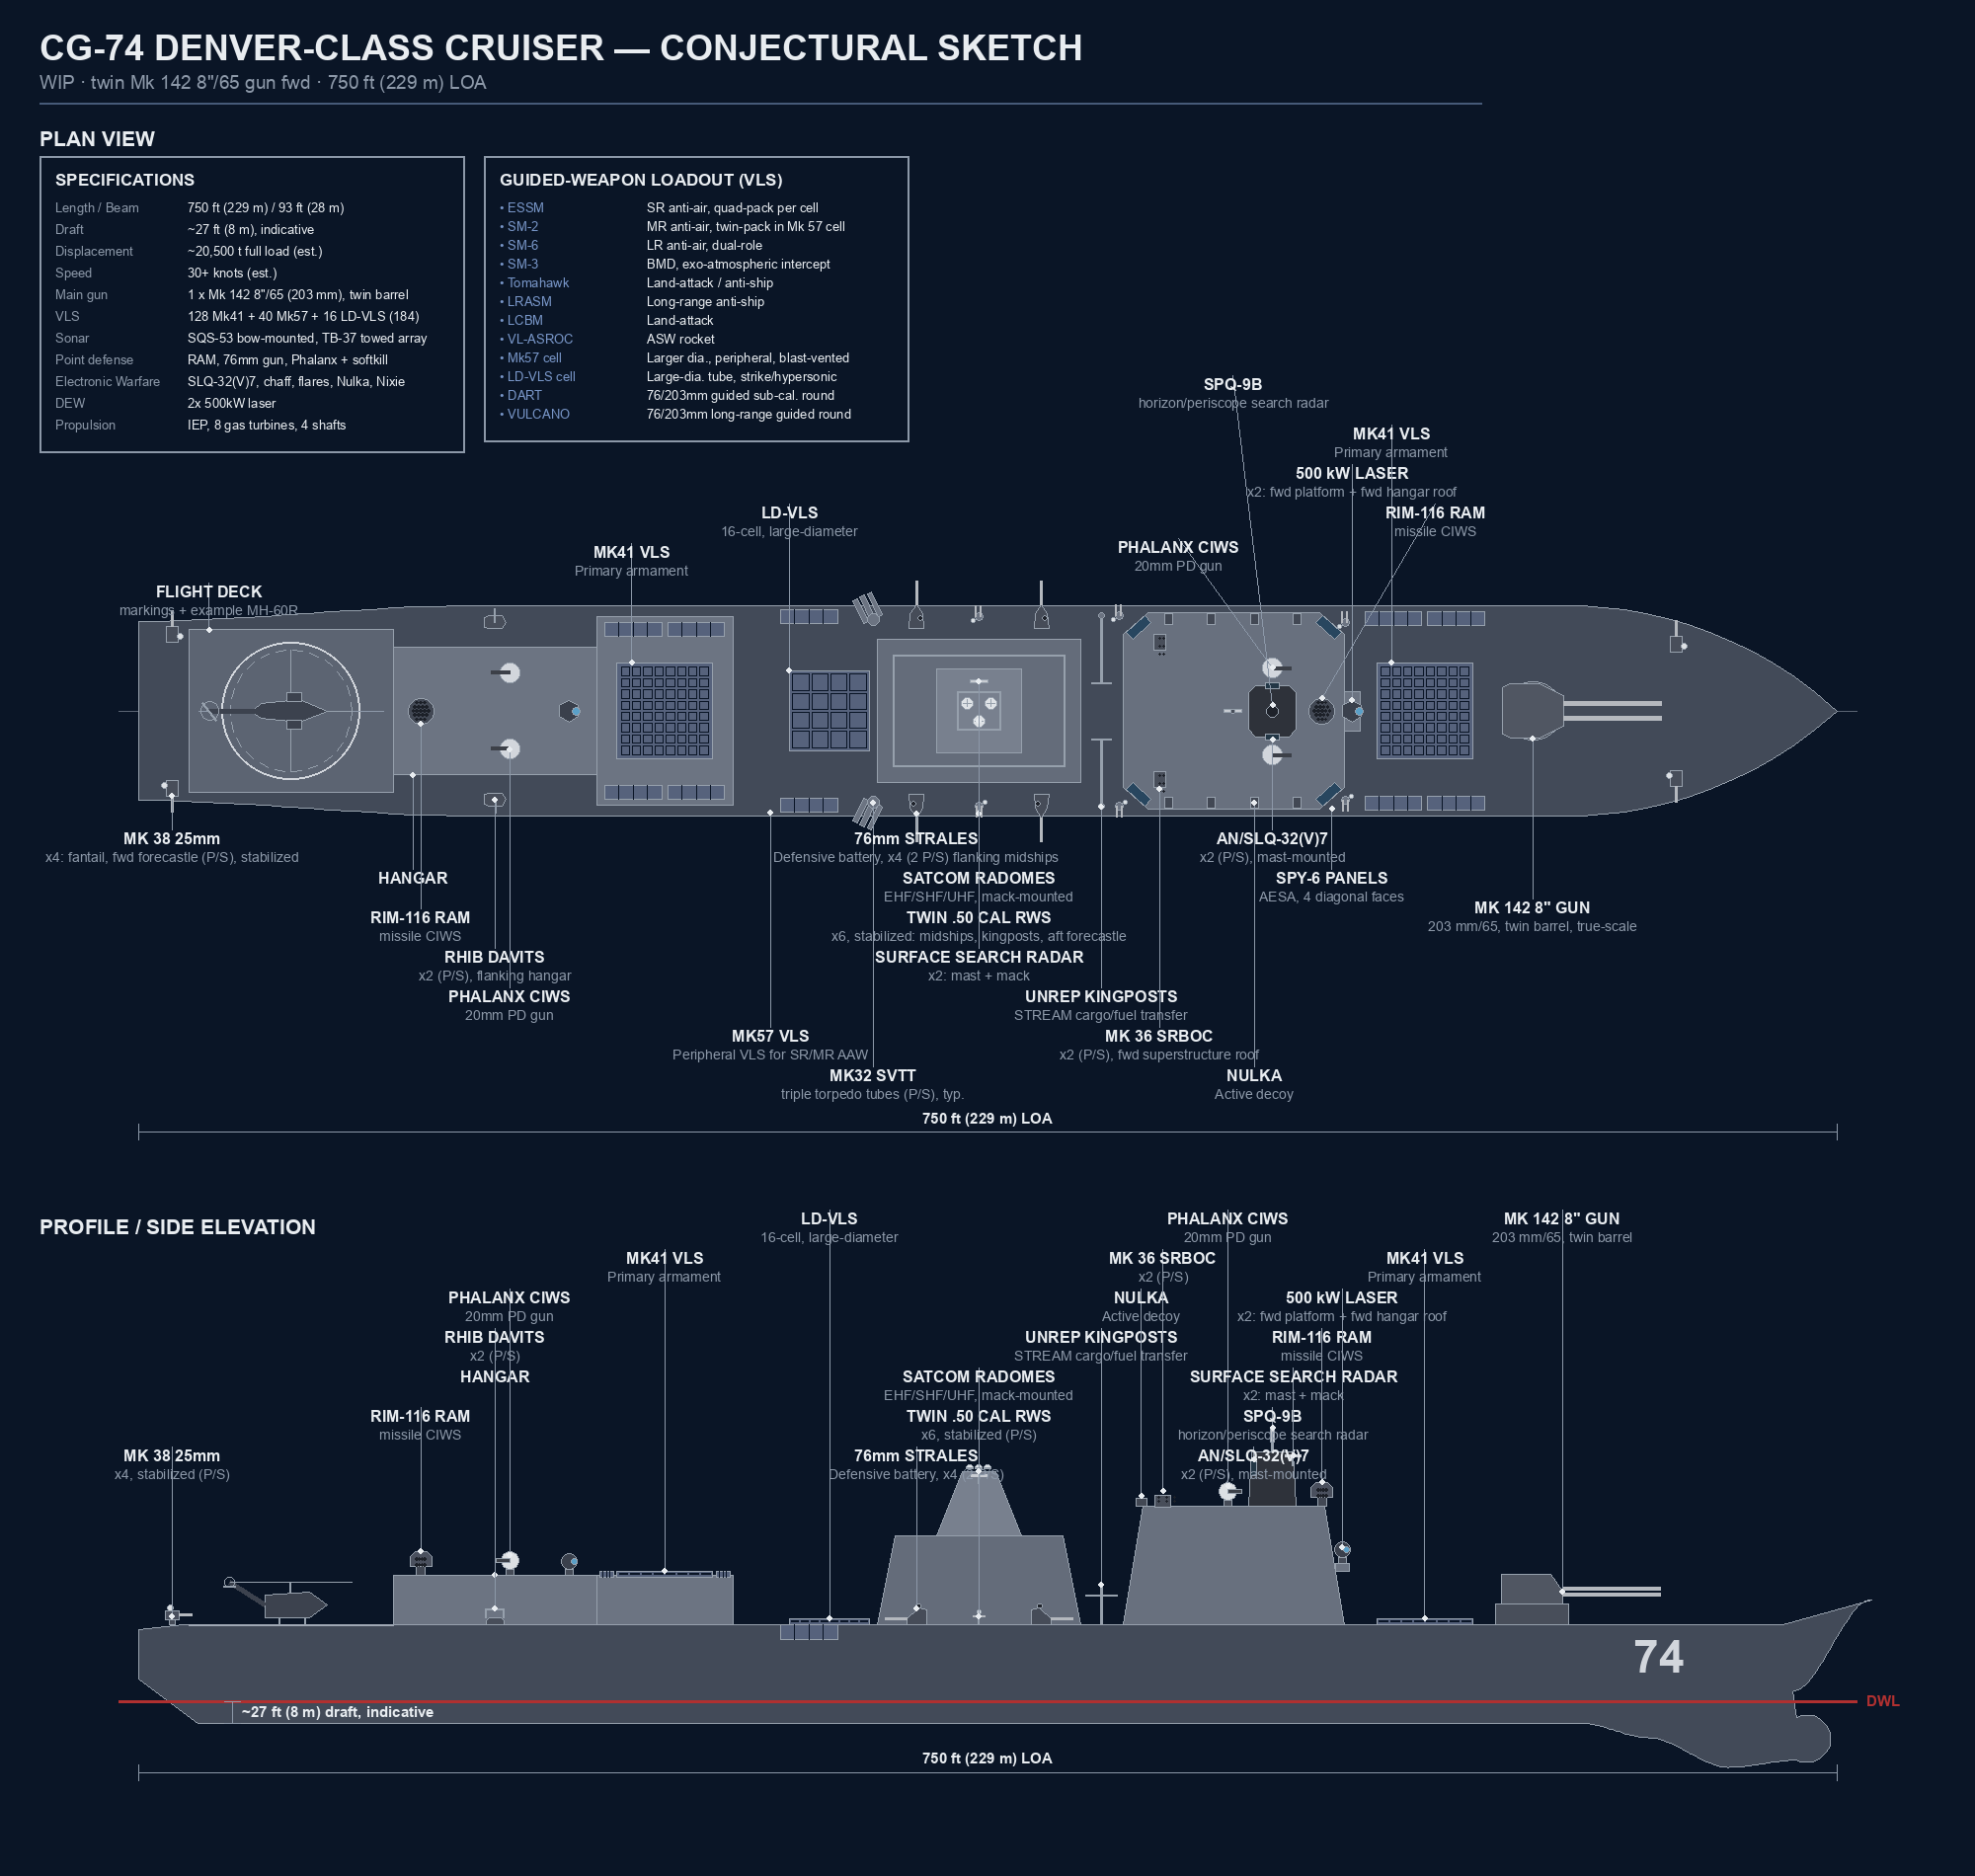
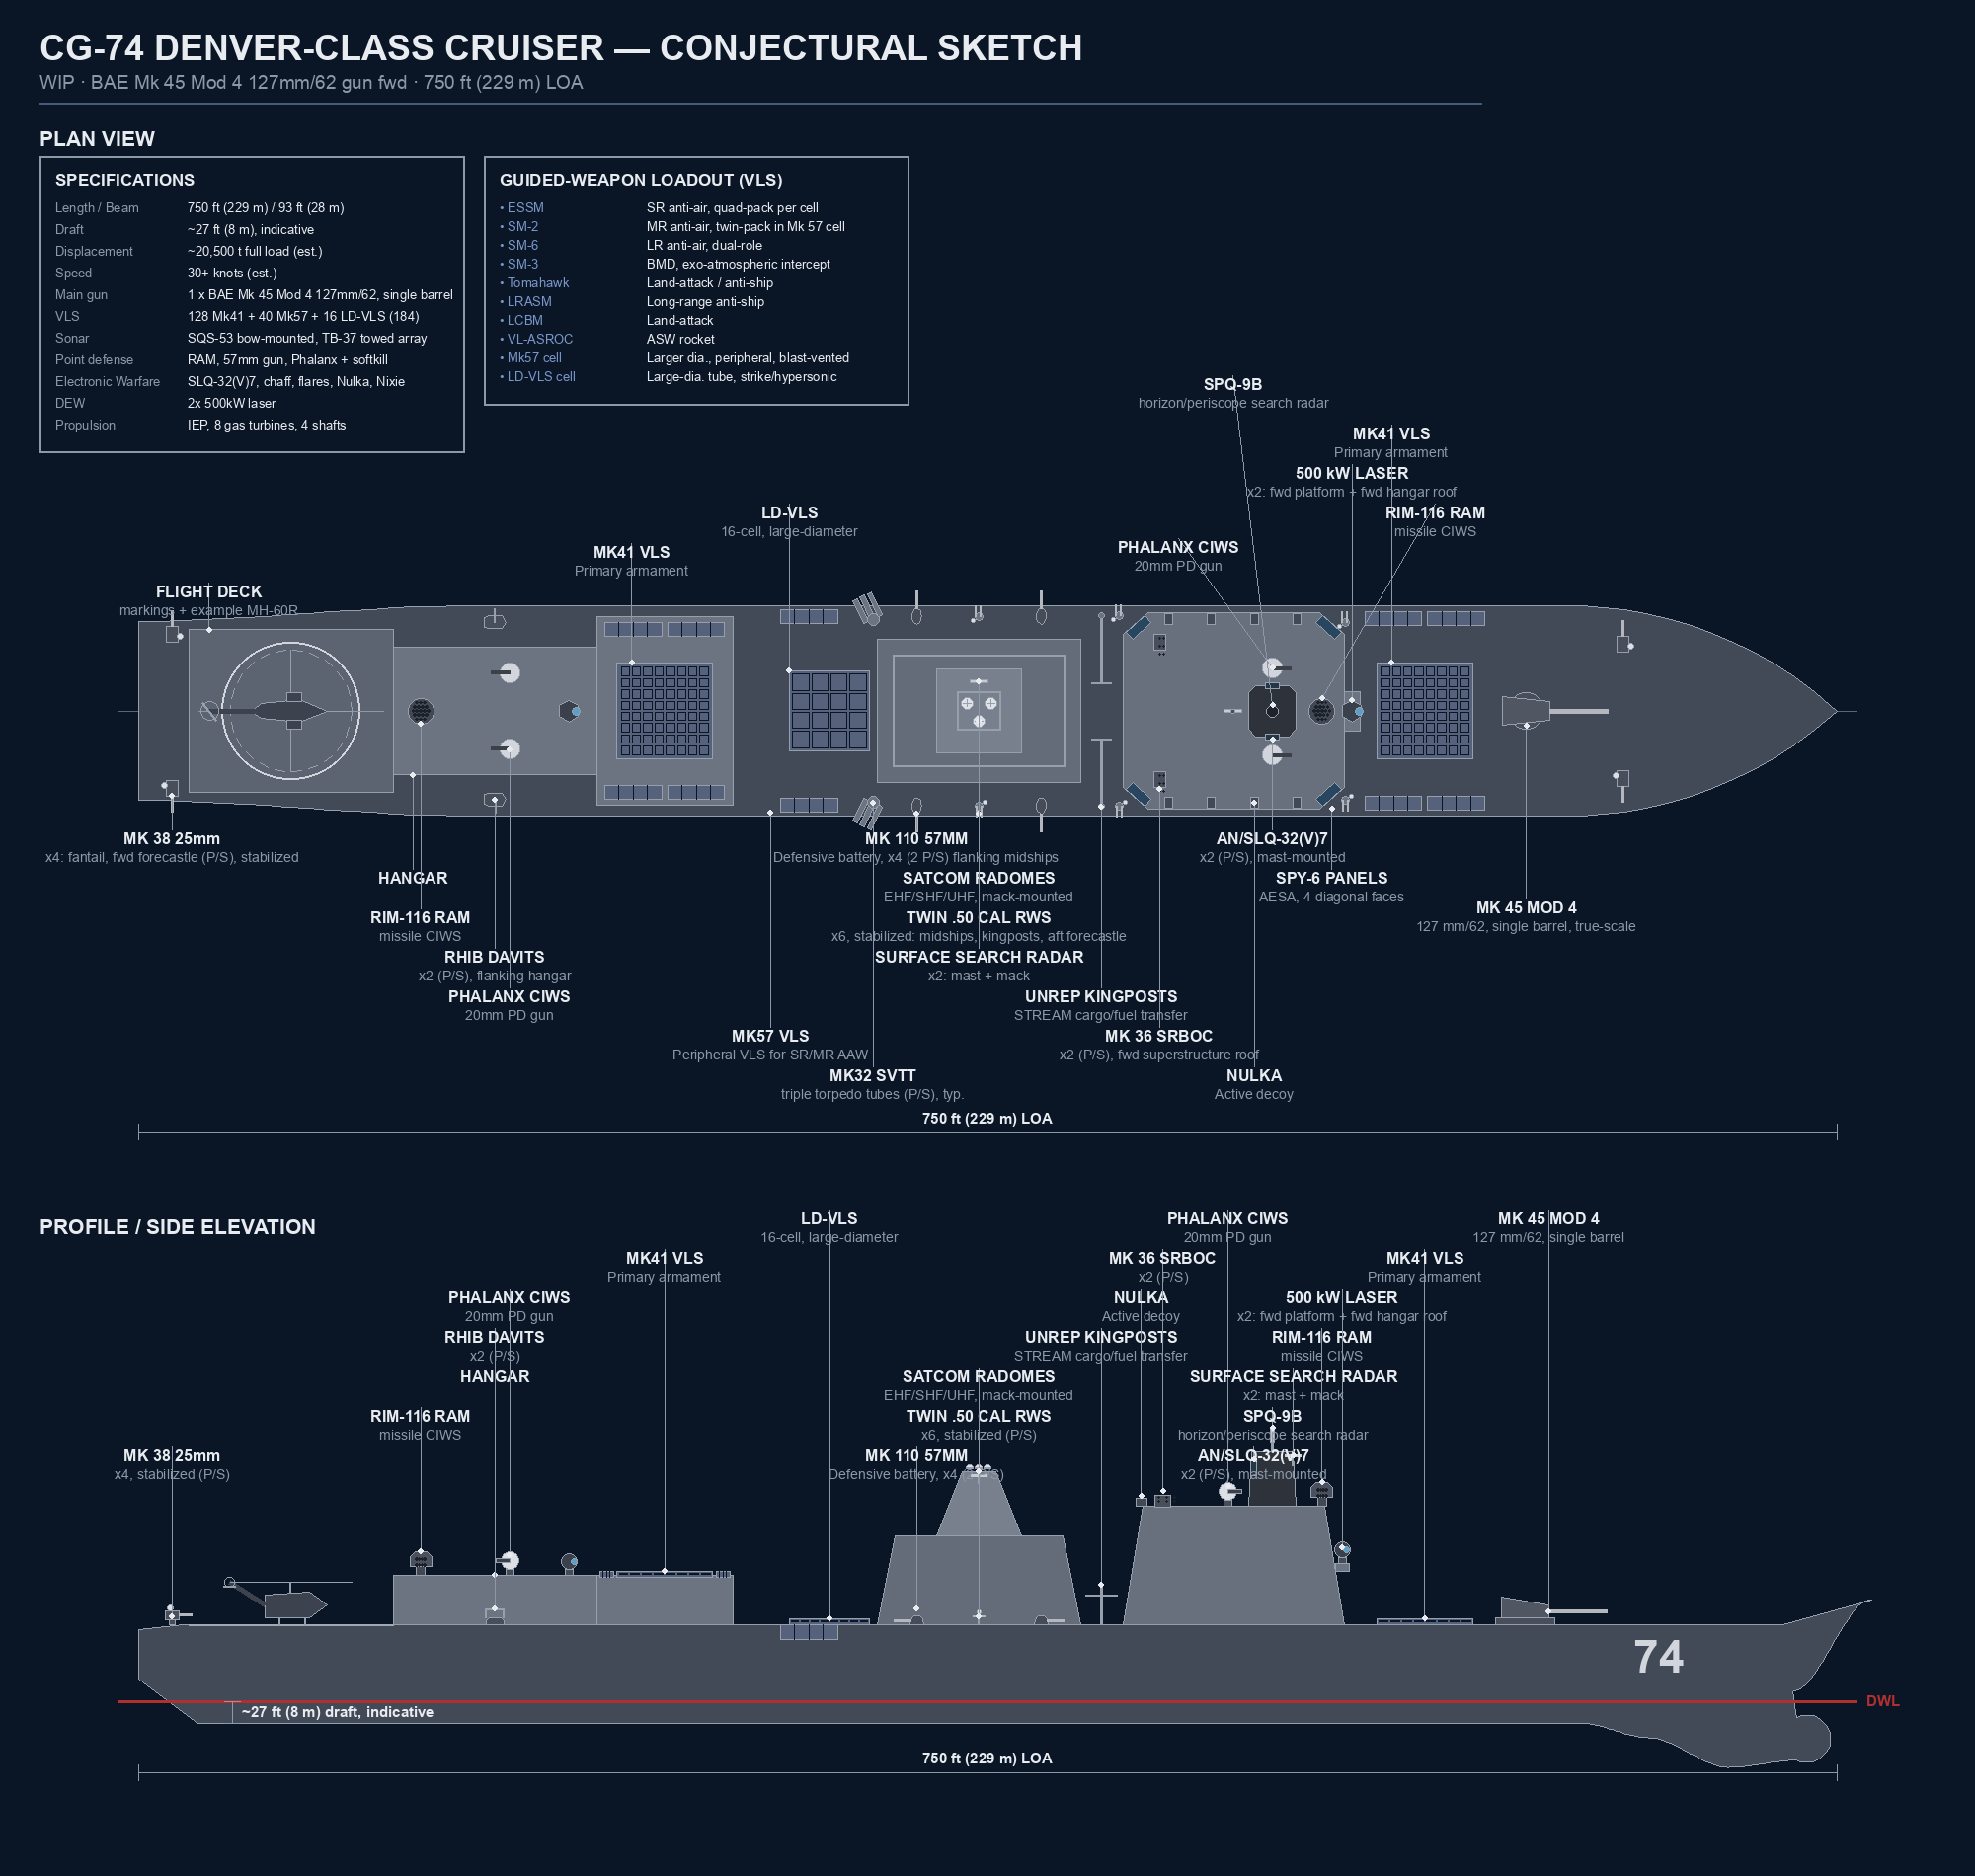
Swap main/secondary guns to USN-standard hardware, trim VLS ammo list
Main gun: OTO Melara 127mm/64 -> BAE Mk 45 Mod 4 127mm/62 -- boxier,
slab-sided turret (flat front face) vs. the OTO family's pointed nose,
barrel true-scaled to 62 calibers.

Secondary guns: 4x OTO Melara 76mm STRALES -> 4x BAE (Bofors) Mk 110
57mm -- compact rounded low-observable dome, smaller footprint than
the 76mm mounts, in both plan and profile.

Also drops DART and VULCANO from the guided-weapon loadout panel
(no gun aboard fires that Leonardo/OTO ammunition family anymore) and
tightens the panel's bottom edge to close the resulting gap. Specs
panel and labels updated throughout (Point defense line, main gun
line, all leader labels) to match.

Claude-Session: https://claude.ai/code/session_012M4Nc5FTfgED7AvMZnVK6B

diff --git a/drawings/new_cruiser.py b/drawings/new_cruiser.py
@@ -18,8 +18,8 @@ Superstructure massing aft-to-fwd:
   Burke-style projecting platform on its fwd face, an octagonal
   LPD-17-style stealth mast (SPQ-9B atop) somewhat fwd of center
   flanked by 2x Phalanx CIWS, and a RAM Mk49 launcher at its fwd edge
-  | fwd 64-cell Mk41 w/ Mk57 x2 1x4 modules P/S flanking it | Mk 142
-  8"/65 (203 mm) main gun, twin barrel, true-scale | ogive bow
+  | fwd 64-cell Mk41 w/ Mk57 x2 1x4 modules P/S flanking it | BAE
+  Mk 45 Mod 4 127mm/62 main gun, single barrel, true-scale | ogive bow
 
 Also adds SPECIFICATIONS and GUIDED-WEAPON LOADOUT insets top-right.
 
@@ -265,45 +265,38 @@ def laser_profile(cx, base_y, height=18, r=8, facing=1):
     draw.ellipse([lx - 3, dome_cy - 3, lx + 3, dome_cy + 3], fill=(90, 160, 200), outline=HULL_LINE)
 
 
-def gun76_plan(cx, cy, angle_deg=0):
-    """OTO Melara 76/62 STRALES, plan view: the real turret is a low,
-    asymmetric "home-plate" stealth shape -- flat wide back, faceted
-    sides tapering to a narrow front where the single 62-caliber barrel
-    exits -- plus the DAVIDE-guidance EO/IR tracker pod on the roof,
-    offset to one side. Rotated to face `angle_deg`."""
-    l, w = 24, 15
-    local = [
-        (-l * 0.5, -w * 0.5), (-l * 0.5, w * 0.5),
-        (l * 0.12, w * 0.42), (l * 0.5, 0), (l * 0.12, -w * 0.42),
-    ]
+def mk110_plan(cx, cy, angle_deg=0):
+    """BAE (Bofors) Mk 110 57mm, plan view: a compact, smoothly rounded
+    low-observable dome -- rounder and noticeably smaller in footprint
+    than the angular OTO Melara guns -- with a single thin 70-caliber
+    barrel exiting the nose. Rotated to face `angle_deg`."""
+    l, w = 16, 10
+    n = 20
+    local = [(l / 2 * math.cos(2 * math.pi * i / n), w / 2 * math.sin(2 * math.pi * i / n)) for i in range(n)]
     rad = math.radians(angle_deg)
     ca, sa = math.cos(rad), math.sin(rad)
     pts = [(cx + lx * ca - ly * sa, cy + lx * sa + ly * ca) for lx, ly in local]
     draw.polygon(pts, fill=(70, 76, 88), outline=HULL_LINE)
-    dlx, dly = -l * 0.08, w * 0.22
-    dx, dy = cx + dlx * ca - dly * sa, cy + dlx * sa + dly * ca
-    draw.ellipse([dx - 2.5, dy - 2.5, dx + 2.5, dy + 2.5], fill=(30, 34, 42), outline=HULL_LINE)
-    bx, by = cx + ca * (l * 0.5 + 24), cy + sa * (l * 0.5 + 24)
-    draw.line([(cx + ca * l * 0.5, cy + sa * l * 0.5), (bx, by)], fill=(180, 184, 190), width=3)
+    bx, by = cx + ca * (l / 2 + 18), cy + sa * (l / 2 + 18)
+    draw.line([(cx + ca * l / 2, cy + sa * l / 2), (bx, by)], fill=(180, 184, 190), width=3)
 
 
-def gun76_profile(cx, base_y, height=15, facing=1):
-    """STRALES turret, profile: low sloped stealth wedge -- taller,
-    flat-faced at the rear, with the roofline sloping down (past a
-    slight ridge where the EO/IR pod sits) to a low front where the
-    long, thin barrel exits near the bottom of the face."""
-    rear_x = cx - facing * 10
-    front_x = cx + facing * 10
-    ridge_x = cx - facing * 2
-    draw.polygon([
-        (rear_x, base_y), (rear_x, base_y - height),
-        (ridge_x, base_y - height * 1.1),
-        (front_x, base_y - height * 0.4), (front_x, base_y),
-    ], fill=(70, 76, 88), outline=HULL_LINE)
-    ridge_y = base_y - height * 1.1
-    draw.ellipse([ridge_x - 2.5, ridge_y - 4, ridge_x + 2.5, ridge_y], fill=(30, 34, 42), outline=HULL_LINE)
-    by = base_y - height * 0.4
-    draw.line([(front_x, by), (front_x + facing * 22, by)], fill=(180, 184, 190), width=3)
+def mk110_profile(cx, base_y, height=9, facing=1):
+    """Mk 110 turret, profile: low, smoothly rounded dome (a semi-ellipse
+    in silhouette, vs. the OTO guns' angular sloped-wedge shape), single
+    thin barrel exiting low on the front face."""
+    half_w = 7
+    n = 14
+    pts = []
+    for i in range(n + 1):
+        lx = -half_w + 2 * half_w * i / n
+        ly = -height * math.sqrt(max(0, 1 - (lx / half_w) ** 2))
+        pts.append((cx + lx, base_y + ly))
+    pts.append((cx + half_w, base_y))
+    pts.append((cx - half_w, base_y))
+    draw.polygon(pts, fill=(70, 76, 88), outline=HULL_LINE)
+    by = base_y - height * 0.35
+    draw.line([(cx + facing * half_w * 0.8, by), (cx + facing * (half_w + 16), by)], fill=(180, 184, 190), width=3)
 
 
 def deck_box_launcher(cx, cy, angle_deg=0, w=10, l=14, fill=(66, 72, 84), tube_dots=0):
@@ -429,7 +422,7 @@ def rhib_davit_profile(cx, base_y, height=16):
 # Header
 # ---------------------------------------------------------------------------
 draw.text((40, 28), "CG-74 DENVER-CLASS CRUISER — CONJECTURAL SKETCH", font=f_title, fill=TEXT_WHITE)
-draw.text((40, 72), "WIP · twin Mk 142 8\"/65 gun fwd · 750 ft (229 m) LOA",
+draw.text((40, 72), "WIP · BAE Mk 45 Mod 4 127mm/62 gun fwd · 750 ft (229 m) LOA",
           font=f_subtitle, fill=TEXT_DIM)
 draw.line([(40, 104), (1500, 104)], fill=(70, 90, 120), width=2)
 
@@ -650,18 +643,18 @@ torp_y_off = half_beam(MIDSHIPS[0]) - 14
 for side in (-1, 1):
     torpedo_mount(pyr_x0 - 4, PLAN_Y + side * torp_y_off, side, SUPER_FILL)
 
-# 4x OTO Melara 76mm STRALES (2 P/S), flanking midships along its
-# length, facing outward -- plus a twin .50 cal amidships between them.
-gun76_y = 96
-gun76_aft_x = pyr_x0 + 40
-gun76_fwd_x = pyr_x1 - 40
-gun76_positions = {}
+# 4x BAE Mk 110 57mm (2 P/S), flanking midships along its length,
+# facing outward -- plus a twin .50 cal amidships between them.
+mk110_y = 96
+mk110_aft_x = pyr_x0 + 40
+mk110_fwd_x = pyr_x1 - 40
+mk110_positions = {}
 for side in (-1, 1):
     ang = 90 if side > 0 else 270
-    for label_key, gx in (("aft", gun76_aft_x), ("fwd", gun76_fwd_x)):
-        gun76_plan(gx, PLAN_Y + side * gun76_y, angle_deg=ang)
-        gun76_positions[(side, label_key)] = (gx, PLAN_Y + side * gun76_y)
-    twin50_plan(gun76_aft_x + (gun76_fwd_x - gun76_aft_x) / 2, PLAN_Y + side * gun76_y, angle_deg=ang)
+    for label_key, gx in (("aft", mk110_aft_x), ("fwd", mk110_fwd_x)):
+        mk110_plan(gx, PLAN_Y + side * mk110_y, angle_deg=ang)
+        mk110_positions[(side, label_key)] = (gx, PLAN_Y + side * mk110_y)
+    twin50_plan(mk110_aft_x + (mk110_fwd_x - mk110_aft_x) / 2, PLAN_Y + side * mk110_y, angle_deg=ang)
 
 # Mk57 flanking LD-VLS, at the outer deck edges -- a single row, tucked
 # in just aft of the Mk32 mounts (the aft Mk41 has its own flanking
@@ -829,33 +822,30 @@ for side in (-1, 1):
                  n_modules=2, fill=MISSILE_DECK_FILL, gap=fwd_mk57_gap)
     fwd_mk57_boxes[side] = (fwd_mk57_block_x0, y0, fwd_mk57_block_x0 + fwd_mk57_block_w, y1)
 
-# Mk 142 8"/65 (203 mm) main gun, twin barrel, true-scale, forward of
-# the fwd VLS complex -- boxy, angular turret on a barbette (ref: USS
-# Hull's Mk 71 trials mount, redesignated Mk 142 for this class),
-# enlarged and lengthened for the twin 65-caliber mount.
-GUN_BARREL_PX = 43.33 * FT_PX   # 203 mm / 65 calibers
-gun_len_px, gun_wid_px = 27 * FT_PX, 24 * FT_PX
-barbette_r_px = 13 * FT_PX
-BARREL_SEP_PX = 6.5 * FT_PX   # twin-barrel centerline spacing
+# BAE Mk 45 Mod 4 127mm/62 main gun, single barrel, true-scale, forward
+# of the fwd VLS complex -- the Mod 4's low-observable shroud is a
+# boxier, slab-sided stealth shape than the OTO Melara guns (flat rear,
+# straight-tapered sides to a flat -- not pointed -- front face where
+# the barrel exits), on a barbette sized for a 5"/62 mount.
+GUN_BARREL_PX = (127 * 62 / 304.8) * FT_PX   # 127 mm / 62 calibers ~= 25.8 ft
+gun_len_px, gun_wid_px = 21 * FT_PX, 13 * FT_PX
+barbette_r_px = 8 * FT_PX
 gun_rear_x = fwd_mk41_x1 + 30
 gun_front_x = gun_rear_x + gun_len_px
 gun_cx = (gun_rear_x + gun_front_x) / 2
 draw.ellipse([gun_cx - barbette_r_px, PLAN_Y - barbette_r_px, gun_cx + barbette_r_px, PLAN_Y + barbette_r_px],
              fill=(72, 78, 90), outline=HULL_LINE)
 gun_pts = [
-    (gun_rear_x, PLAN_Y - gun_wid_px * 0.42), (gun_rear_x + 8, PLAN_Y - gun_wid_px / 2),
-    (gun_cx + 6, PLAN_Y - gun_wid_px / 2), (gun_front_x, PLAN_Y - gun_wid_px * 0.28),
-    (gun_front_x, PLAN_Y + gun_wid_px * 0.28), (gun_cx + 6, PLAN_Y + gun_wid_px / 2),
-    (gun_rear_x + 8, PLAN_Y + gun_wid_px / 2), (gun_rear_x, PLAN_Y + gun_wid_px * 0.42),
+    (gun_rear_x, PLAN_Y - gun_wid_px / 2), (gun_rear_x, PLAN_Y + gun_wid_px / 2),
+    (gun_front_x, PLAN_Y + gun_wid_px * 0.32), (gun_front_x, PLAN_Y - gun_wid_px * 0.32),
 ]
 draw.polygon(gun_pts, fill=(80, 86, 98), outline=HULL_LINE)
 barrel_tip_x = gun_front_x + GUN_BARREL_PX
-for off in (-BARREL_SEP_PX / 2, BARREL_SEP_PX / 2):
-    draw.line([(gun_front_x, PLAN_Y + off), (barrel_tip_x, PLAN_Y + off)], fill=(180, 184, 190), width=5)
+draw.line([(gun_front_x, PLAN_Y), (barrel_tip_x, PLAN_Y)], fill=(180, 184, 190), width=5)
 
 # Forecastle (2 pairs) -- the aft pair (twin .50 cal) sits aft of the
-# fwd Mk57 VLS complex, clear of both the VLS footprint and the Mk
-# 142's train circle; the fwd pair (foremost mounts on the ship,
+# fwd Mk57 VLS complex, clear of both the VLS footprint and the main
+# gun's train circle; the fwd pair (foremost mounts on the ship,
 # upgraded to Mk 38 25mm stabilized RWS) sits well forward of the
 # muzzle, also clear of the train circle.
 for side in (-1, 1):
@@ -889,11 +879,11 @@ leader_label((ram_fwd_cx, PLAN_Y - 13), (ram_fwd_cx + 115, PLAN_Y - 210),
 leader_label((mast_cx, PLAN_Y - 6), (mast_cx - 40, PLAN_Y - 340),
              "SPQ-9B", "horizon/periscope search radar")
 
-# Mk 142 gun label -- placed below the ship (clear of the turret/barrel
+# Main gun label -- placed below the ship (clear of the turret/barrel
 # itself) rather than above it, and still clear of the specs/loadout
 # panels regardless of x.
 leader_label((gun_cx, PLAN_Y + gun_wid_px / 2), (min(gun_cx, W - 140), PLAN_Y + 190),
-             'MK 142 8" GUN', "203 mm/65, twin barrel, true-scale")
+             "MK 45 MOD 4", "127 mm/62, single barrel, true-scale")
 
 below_entries = [
     ((hangar_box[0] + 20, hangar_box[3]), "HANGAR", None),
@@ -901,13 +891,13 @@ below_entries = [
     ((ciws_hangar_cx, PLAN_Y + hang_hb * 0.6), "PHALANX CIWS", "20mm PD gun"),
     (rhib_boxes[1], "RHIB DAVITS", "x2 (P/S), flanking hangar"),
     ((mk57_boxes[1][0] - 10, mk57_boxes[1][3]), "MK57 VLS", "Peripheral VLS for SR/MR AAW"),
-    ((gun76_positions[(1, "aft")][0], gun76_positions[(1, "aft")][1] + 8), "76mm STRALES",
+    ((mk110_positions[(1, "aft")][0], mk110_positions[(1, "aft")][1] + 8), "MK 110 57MM",
      "Defensive battery, x4 (2 P/S) flanking midships"),
     ((kingpost_tops[1][0], PLAN_Y + (kp_hb - 10)), "UNREP KINGPOSTS", "STREAM cargo/fuel transfer"),
     (uhf_pt, "SATCOM RADOMES", "EHF/SHF/UHF, mack-mounted"),
     ((srboc_boxes[1][0], srboc_boxes[1][1] + 10), "MK 36 SRBOC", "x2 (P/S), fwd superstructure roof"),
     ((pyr_x0 - 4, PLAN_Y + torp_y_off), "MK32 SVTT", "triple torpedo tubes (P/S), typ."),
-    ((gun76_aft_x + (gun76_fwd_x - gun76_aft_x) / 2, PLAN_Y + gun76_y + 8), "TWIN .50 CAL RWS",
+    ((mk110_aft_x + (mk110_fwd_x - mk110_aft_x) / 2, PLAN_Y + mk110_y + 8), "TWIN .50 CAL RWS",
      "x6, stabilized: midships, kingposts, aft forecastle"),
     ((fantail_cx, PLAN_Y + 78 + 8), "MK 38 25mm", "x4: fantail, fwd forecastle (P/S), stabilized"),
     ((nulka_boxes[6][0], nulka_boxes[6][1]), "NULKA", "Active decoy"),
@@ -1076,11 +1066,11 @@ draw.polygon([
     (mid_x1 - pyr_inset, pyr_top_y), (mid_x0 + pyr_inset, pyr_top_y),
 ], fill=PYRAMID_FILL, outline=HULL_LINE)
 
-# 76mm STRALES -- aft AND fwd representative icons (both are 2 P/S
+# Mk 110 57mm -- aft AND fwd representative icons (both are 2 P/S
 # pairs flanking midships along its length) -- + twin .50 cal (one
 # representative icon, a P/S pair flanking midships).
-gun76_profile(mid_x0 + 40, DECK_Y - 5, facing=-1)
-gun76_profile(mid_x1 - 40, DECK_Y - 5, facing=1)
+mk110_profile(mid_x0 + 40, DECK_Y - 5, facing=-1)
+mk110_profile(mid_x1 - 40, DECK_Y - 5, facing=1)
 twin50_profile((mid_x0 + mid_x1) / 2, DECK_Y - 5)
 
 mack_x0, mack_x1 = hull_x(MACK[0]), hull_x(MACK[1])
@@ -1168,28 +1158,26 @@ cell_grid((fwd_vls_x0 + fwd_vls_x1) / 2 - mk41_size / 2, fwd_vls_top,
           (fwd_vls_x0 + fwd_vls_x1) / 2 + mk41_size / 2, DECK_Y - 5,
           rows=1, cols=8, fill=MISSILE_DECK_FILL, pad=1)
 
-# Mk 142 gun -- barbette drum + boxy turret w/ sloped front glacis, twin
-# long thin barrels (shown as slightly offset parallel lines, since a
-# true side-by-side twin mount is superimposed in profile) roughly at
-# trunnion height.
+# BAE Mk 45 Mod 4 gun -- low barbette + boxy, slab-sided shroud (flat
+# sloped roof down to a flat vertical front face, vs. the OTO guns'
+# pointed nose), single thin barrel roughly at trunnion height.
 gun_base_y = DECK_Y - 5
-barbette_h = 9 * FT_PX
-turret_h = 13 * FT_PX
+barbette_h = 3 * FT_PX
+turret_h = 9 * FT_PX
 barbette_top_y = gun_base_y - barbette_h
 turret_top_y = barbette_top_y - turret_h
-barrel_y = barbette_top_y - turret_h * 0.42
+front_face_h = turret_h * 0.6
+barrel_y = barbette_top_y - front_face_h * 0.5
 gun_rear_xp = fwd_vls_x1 + 30
 gun_front_xp = gun_rear_xp + gun_len_px
 draw.rectangle([gun_rear_xp - 6, barbette_top_y, gun_front_xp + 6, gun_base_y],
                fill=(72, 78, 90), outline=HULL_LINE)
 draw.polygon([
     (gun_rear_xp, barbette_top_y), (gun_rear_xp, turret_top_y),
-    (gun_front_xp - 12, turret_top_y), (gun_front_xp, barrel_y),
-    (gun_front_xp, barbette_top_y),
+    (gun_front_xp, barbette_top_y - front_face_h), (gun_front_xp, barbette_top_y),
 ], fill=(80, 86, 98), outline=HULL_LINE)
 barrel_tip_xp = gun_front_xp + GUN_BARREL_PX
-for boff in (-3, 3):
-    draw.line([(gun_front_xp, barrel_y + boff), (barrel_tip_xp, barrel_y + boff)], fill=(180, 184, 190), width=4)
+draw.line([(gun_front_xp, barrel_y), (barrel_tip_xp, barrel_y)], fill=(180, 184, 190), width=4)
 
 dim_line((STERN_X, DECK_Y + 145), (BOW_X, DECK_Y + 145), f"{LOA_FT} ft ({round(LOA_FT * 0.3048)} m) LOA")
 dim_line((STERN_X + 95, WATERLINE_Y), (STERN_X + 95, KEEL_Y),
@@ -1201,14 +1189,14 @@ profile_above = [
     (((vls_x0 + vls_x1) / 2, mk41_hatch_y0), "MK41 VLS", "Primary armament"),
     (((fwd_vls_x0 + fwd_vls_x1) / 2, fwd_vls_top), "MK41 VLS", "Primary armament"),
     (((ld_x0 + ld_x1) / 2, ld_top), "LD-VLS", "16-cell, large-diameter"),
-    ((gun_front_xp, barrel_y), 'MK 142 8" GUN', "203 mm/65, twin barrel"),
+    ((gun_front_xp, barrel_y), "MK 45 MOD 4", "127 mm/62, single barrel"),
     ((ram_fwd_cx, oct_top_y - 24), "RIM-116 RAM", "missile CIWS"),
     ((ram_hangar_cx, hang_top - 24), "RIM-116 RAM", "missile CIWS"),
     ((mast_cx - 45, oct_top_y - 20), "PHALANX CIWS", "20mm PD gun"),
     ((ciws_hangar_cx, hang_top - 20), "PHALANX CIWS", "20mm PD gun"),
     ((kp_cx, kp_top_y), "UNREP KINGPOSTS", "STREAM cargo/fuel transfer"),
     ((plat_px + plat_p_depth / 2, plat_py - plat_p_h - 16), "500 kW LASER", "x2: fwd platform + fwd hangar roof"),
-    ((mid_x0 + 40, DECK_Y - 5 - 16), "76mm STRALES", "Defensive battery, x4 (2 P/S)"),
+    ((mid_x0 + 40, DECK_Y - 5 - 16), "MK 110 57MM", "Defensive battery, x4 (2 P/S)"),
     ((oct_x0 + 18, oct_top_y - 10), "NULKA", "Active decoy"),
     ((oct_x0 + 40, oct_top_y - 15), "MK 36 SRBOC", "x2 (P/S)"),
     ((mast_x0 + 5, slq32_y0), "AN/SLQ-32(V)7", "x2 (P/S), mast-mounted"),
@@ -1241,10 +1229,10 @@ spec_rows = [
     ("Draft", f"~{DRAFT_FT} ft ({round(DRAFT_FT * 0.3048)} m), indicative"),
     ("Displacement", "~20,500 t full load (est.)"),
     ("Speed", "30+ knots (est.)"),
-    ("Main gun", "1 x Mk 142 8\"/65 (203 mm), twin barrel"),
+    ("Main gun", "1 x BAE Mk 45 Mod 4 127mm/62, single barrel"),
     ("VLS", f"{total_mk41} Mk41 + {total_mk57} Mk57 + {total_ld} LD-VLS ({total_mk41 + total_mk57 + total_ld})"),
     ("Sonar", "SQS-53 bow-mounted, TB-37 towed array"),
-    ("Point defense", "RAM, 76mm gun, Phalanx + softkill"),
+    ("Point defense", "RAM, 57mm gun, Phalanx + softkill"),
     ("Electronic Warfare", "SLQ-32(V)7, chaff, flares, Nulka, Nixie"),
     ("DEW", "2x 500kW laser"),
     ("Propulsion", "IEP, 8 gas turbines, 4 shafts"),
@@ -1255,7 +1243,7 @@ for k, v in spec_rows:
     draw.text((spec_panel[0] + 150, ry), v, font=f_panel_row_sm, fill=TEXT_WHITE)
     ry += 22
 
-loadout_panel = (490, 158, 920, 447)
+loadout_panel = (490, 158, 920, 410)
 draw.rectangle(loadout_panel, outline=DIM_LINE, width=2)
 draw.text((loadout_panel[0] + 16, loadout_panel[1] + 14), "GUIDED-WEAPON LOADOUT (VLS)", font=f_panel_head, fill=TEXT_WHITE)
 loadout_rows = [
@@ -1269,8 +1257,6 @@ loadout_rows = [
     ("VL-ASROC", "ASW rocket"),
     ("Mk57 cell", "Larger dia., peripheral, blast-vented"),
     ("LD-VLS cell", "Large-dia. tube, strike/hypersonic"),
-    ("DART", "76/203mm guided sub-cal. round"),
-    ("VULCANO", "76/203mm long-range guided round"),
 ]
 ry = loadout_panel[1] + 45
 for k, v in loadout_rows: